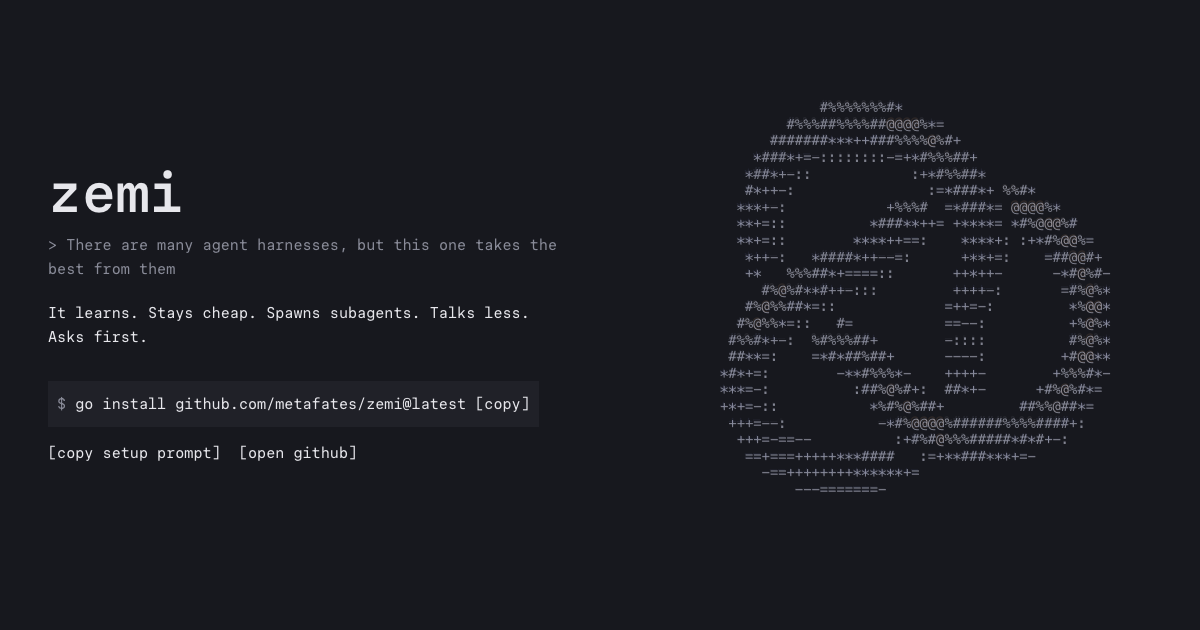
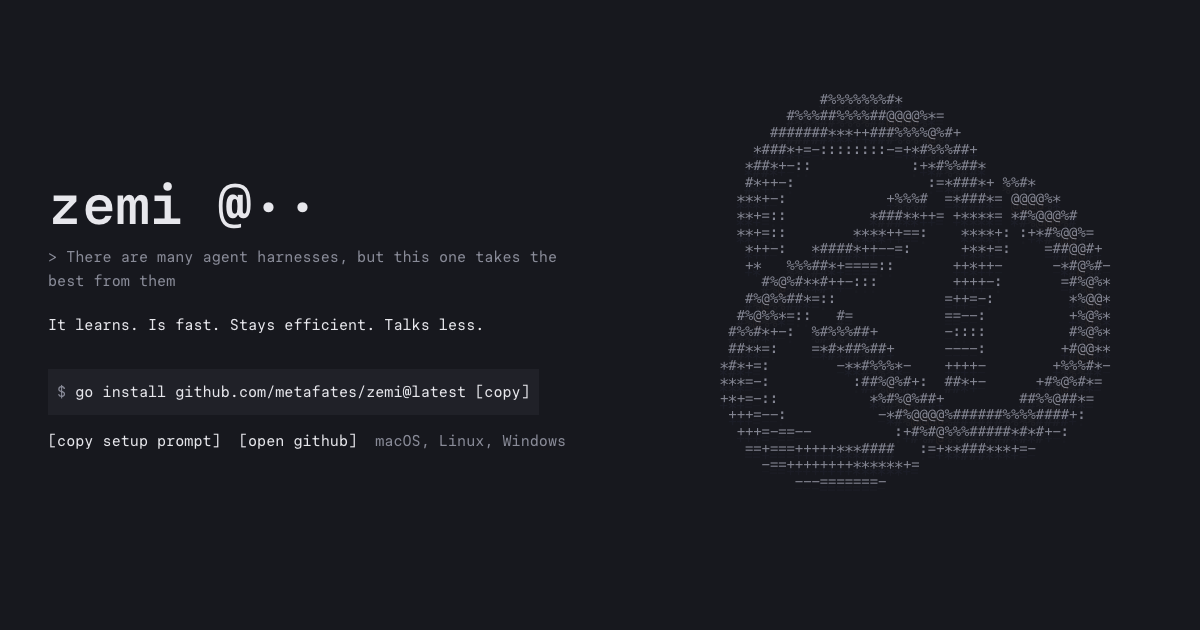
say windows is supported

diff --git a/docs/index.html b/docs/index.html
@@ -27,7 +27,7 @@
     <div class="actions">
       <p class="well"><span class="dim" aria-hidden="true">$&nbsp;</span>go install github.com/metafates/zemi@latest <button class="copy" type="button" data-copy="go install github.com/metafates/zemi@latest" data-label="[copy]" aria-live="polite">[copy]</button></p>
       <p class="pair"><button class="copy" type="button" data-copy="Set up zemi for me from github.com/metafates/zemi:&#10;install the binary (go install github.com/metafates/zemi@latest, or build from source),&#10;ask me which model provider I use, and put its API key in my shell config.&#10;README: https://github.com/metafates/zemi. Print the one command I should run next." data-label="[copy setup prompt]" aria-live="polite">[copy setup prompt]</button>
-      <a href="https://github.com/metafates/zemi">[open github]</a></p>
+      <a href="https://github.com/metafates/zemi">[open github]</a> <span class="dim">macOS, Linux, Windows</span></p>
     </div>
   </section>
   <section class="knot">

diff --git a/docs/style.css b/docs/style.css
@@ -59,7 +59,8 @@ blockquote::before { content: "> "; }
   margin: 0;
   overflow-wrap: anywhere;
 }
-.well .dim { color: var(--dim); user-select: none; }
+.dim { color: var(--dim); }
+.well .dim { user-select: none; }
 
 a, .copy {
   color: var(--fg);

diff --git a/DESIGN.md b/DESIGN.md
@@ -293,7 +293,8 @@ which is what makes those terminate.
 
 ## 5. Lua runtime and plugin layout
 
-Directories (XDG):
+Directories (XDG; Windows keeps the same roots under the user's home,
+`%USERPROFILE%\.config\zemi`, not `%APPDATA%`):
 
 ```
 ~/.config/zemi/           config
@@ -1455,7 +1456,9 @@ Lua-supplied values only, never looked up from the parent by name) as
 given; model `job_start` takes
 none, since its shell line sets them (`FOO=1 cmd`); jobs never inherit the
 controlling tty (each runs in its own session through `internal/proc`;
-stdin is closed unless the job asks for a pipe with `stdin = true`).
+stdin is closed unless the job asks for a pipe with `stdin = true`). Windows
+has no process groups here: a killed shell only kills itself, and its own
+children keep running until a job object is used.
 
 ### 6.6 UI
 
@@ -3029,5 +3032,3 @@ runtime/types/              the LuaLS `---@meta` description of the whole zemi.*
 ## 13. Open questions
 
 - Credential storage and auth flow (keys read with `zemi.env.get` today).
-- Platform support statement: the doc assumes Unix throughout (XDG
-  paths, termios); Windows support is undecided.

diff --git a/AGENTS.md b/AGENTS.md
@@ -91,7 +91,7 @@ A Makefile wraps the plain Go toolchain (module `github.com/metafates/zemi`, Go 
 `make check` is what a change has to pass:
 
 ```
-make check              # go vet + go test + make luals + make stylua + make lint + a gofmt check, all must be clean
+make check              # go vet (host and windows) + go test + make luals + make stylua + make lint + a gofmt check, all must be clean
 make luals              # lua-language-server over runtime/; prints a skip line without the binary
                         # not on PATH? make check LUALS=/path/to/lua-language-server
 make stylua             # stylua --check over runtime/ and testdata/ (stylua.toml: tabs); a skip line without the binary

diff --git a/README.md b/README.md
@@ -24,6 +24,10 @@ export DEEPSEEK_API_KEY=...
 zemi
 ```
 
+zemi runs on macOS, Linux and Windows. On Windows its `shell` tool and jobs run
+through Git for Windows' bash when it is installed and `cmd` otherwise, so
+POSIX-only command lines need Git Bash.
+
 If you prefer your other agent setup zemi for you, here's a prompt:
 
 ```markdown
